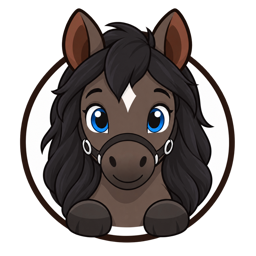
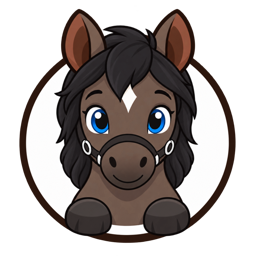
Trim Noir feedback portrait mane [fast-deploy]

diff --git a/writing-submission.js b/writing-submission.js
@@ -968,7 +968,7 @@ function appendStructuredFeedbackRichText(container, textValue, formattingValue,
       const badge = createElement("span", "feedback-number-badge", item.number);
       const mascot = WRITING_FEEDBACK_MASCOTS[(Math.max(1, Number(item.number) || 1) - 1) % WRITING_FEEDBACK_MASCOTS.length];
       const mascotImage = document.createElement("img");
-      mascotImage.src = `assets/writing-submission/mascot-heads/${mascot}.png?v=20260924-feedback-fixes1`;
+      mascotImage.src = `assets/writing-submission/mascot-heads/${mascot}.png?v=20260924-feedback-fixes2-noir`;
       mascotImage.alt = "";
       mascotImage.loading = "lazy";
       badge.append(mascotImage);
@@ -6143,7 +6143,7 @@ const WRITING_FEEDBACK_MASCOTS = ["eddy", "phoebe", "elsie", "noir", "celeste"];
 function writingFeedbackItemMarker(index) {
   const number=index+1, mascot=WRITING_FEEDBACK_MASCOTS[index%WRITING_FEEDBACK_MASCOTS.length];
   const marker=createElement("span","teacher-feedback-item-marker",String(number));marker.dataset.feedbackItemNumber=String(number);
-  const image=document.createElement("img");image.src=`assets/writing-submission/mascot-heads/${mascot}.png?v=20260924-feedback-fixes1`;image.alt="";image.loading="lazy";marker.prepend(image);return marker;
+  const image=document.createElement("img");image.src=`assets/writing-submission/mascot-heads/${mascot}.png?v=20260924-feedback-fixes2-noir`;image.alt="";image.loading="lazy";marker.prepend(image);return marker;
 }
 function writingFeedbackHeading(label,index) { const heading=createElement("strong","teacher-feedback-numbered-heading");heading.append(document.createTextNode(`${label} `),writingFeedbackItemMarker(index));return heading; }
 

diff --git a/writing-submission.html b/writing-submission.html
@@ -646,6 +646,6 @@
   <script src="essay-portal-links.js?v=20260730-1"></script>
   <script src="shared-system-nav.js?v=20260924-wallet1"></script>
   <script src="learning-word-bookmarks.js?v=20260901-word-brush1"></script>
-  <script type="module" src="writing-submission.js?v=20260924-feedback-fixes1"></script>
+  <script type="module" src="writing-submission.js?v=20260924-feedback-fixes2-noir"></script>
 </body>
 </html>
